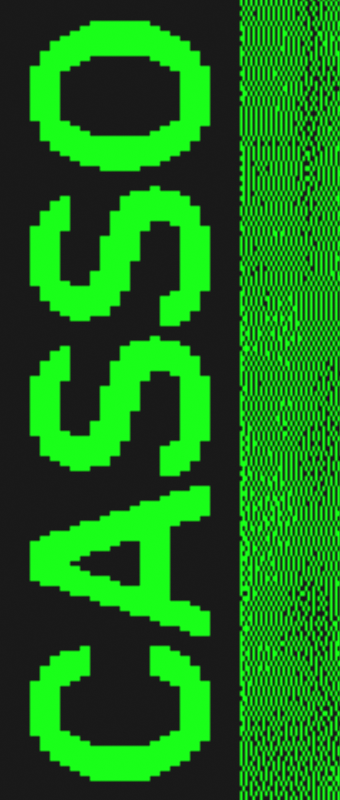
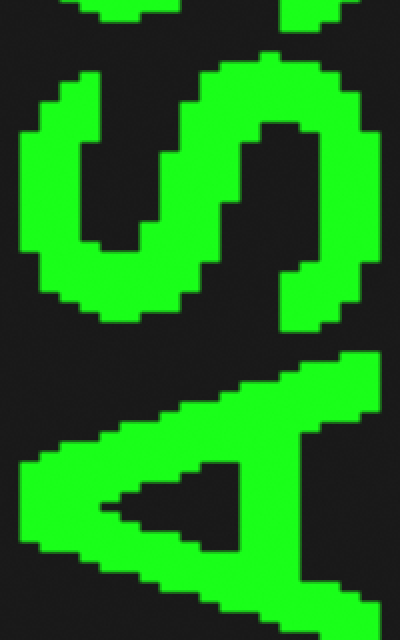
docs(readme): tighten the CRT crop, and reshoot the drive widgets
The before-and-after covered the whole title, which left the bloom too
small to read. It is two letters now, doubled with nearest-neighbor, and
the scanline gaps beside each lit pixel -- which is where the bloom
actually shows -- are plain.

The drive shot dated from before the write-protect padlock rendered
properly and had a mangled glyph beside the disk name. Recaptured with
Karateka mounted and the drive still reading, so the IN USE lamp is lit.

diff --git a/README.md b/README.md
@@ -404,14 +404,14 @@ bar, so the picture gets the window; all three are
 
 Retro Terminal turns the CRT effects up: scanlines at three quarters strength,
 a wide bloom and color bleed, all still yours to adjust on the Display tab.
-Here is what that does, at 1:1 on the demo's title:
+Here is what that does, on two letters of the demo's title:
 
 <table align="center"><tr>
-  <td valign="top" align="center"><img src="Assets/theme-crt-off.png" alt="The Retro Terminal title at 1:1 with the CRT effects switched off: flat green strokes with hard edges" width="340" /><br /><sub>effects off</sub></td>
-  <td valign="top" align="center"><img src="Assets/theme-crt-on.png" alt="The same crop with the effects on: scanlines cutting through every stroke, and a phosphor bloom spreading into the black around them" width="340" /><br /><sub>effects on</sub></td>
+  <td valign="top" align="center"><img src="Assets/theme-crt-off.png" alt="Two letters of the Retro Terminal title with the CRT effects switched off: flat green strokes with hard edges" width="400" /><br /><sub>effects off</sub></td>
+  <td valign="top" align="center"><img src="Assets/theme-crt-on.png" alt="The same two letters with the effects on: scanlines cutting through every stroke, and the bloom lighting the scanline gaps next to each lit pixel" width="400" /><br /><sub>effects on</sub></td>
 </tr></table>
 
-<p align="center"><sub>The same pixels, one capture apart. Nothing else changes: same picture, same phosphor, same brightness. Solid strokes are the honest subject here -- on the dithered photo beside them the scanlines are hard to tell from the dither's own texture.</sub></p>
+<p align="center"><sub>The same pixels, one capture apart, doubled with nearest-neighbor so every screen pixel is a whole block. Nothing else changes: same picture, same phosphor, same brightness. Watch the scanline gaps immediately beside a lit pixel -- that is the bloom, and it is why the strokes look like they are glowing rather than merely striped. Solid strokes are the honest subject: on the dithered photo beside them the scanlines are hard to tell from the dither's own texture.</sub></p>
 
 **The drives are Disk II models on the desk**, the same CAD objects as the
 monitor, with the DRIVE 1 and IN USE marks, the `disk ][` logotype and the
